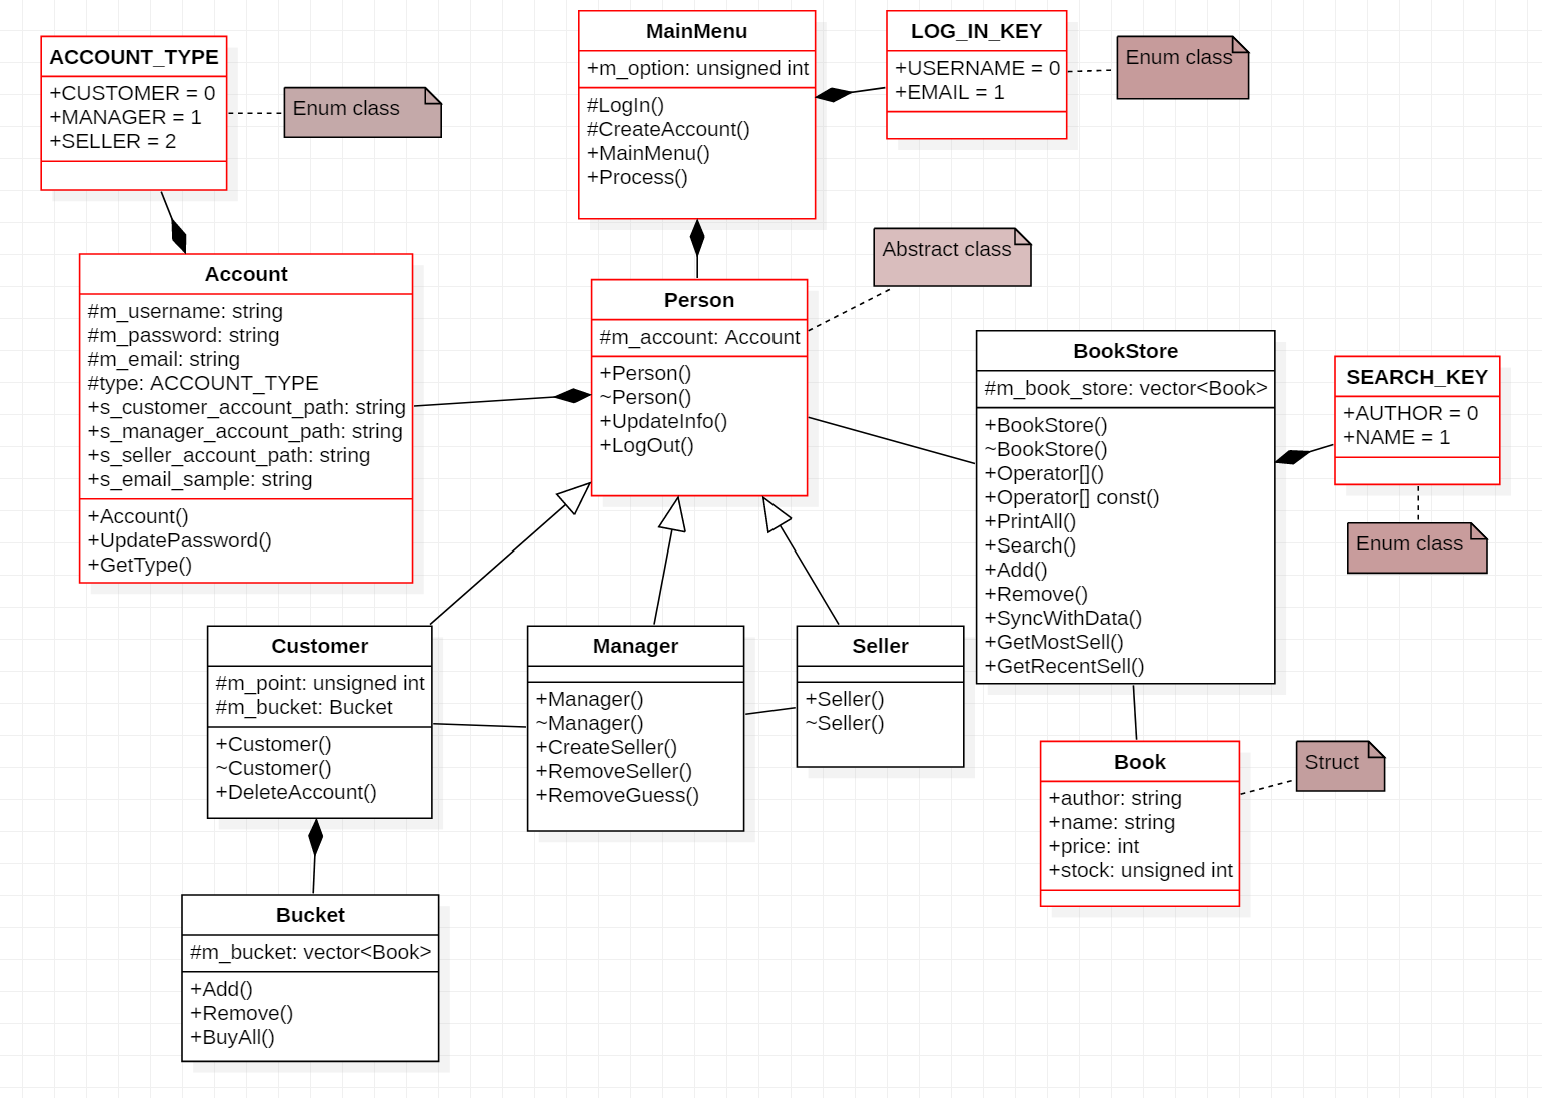
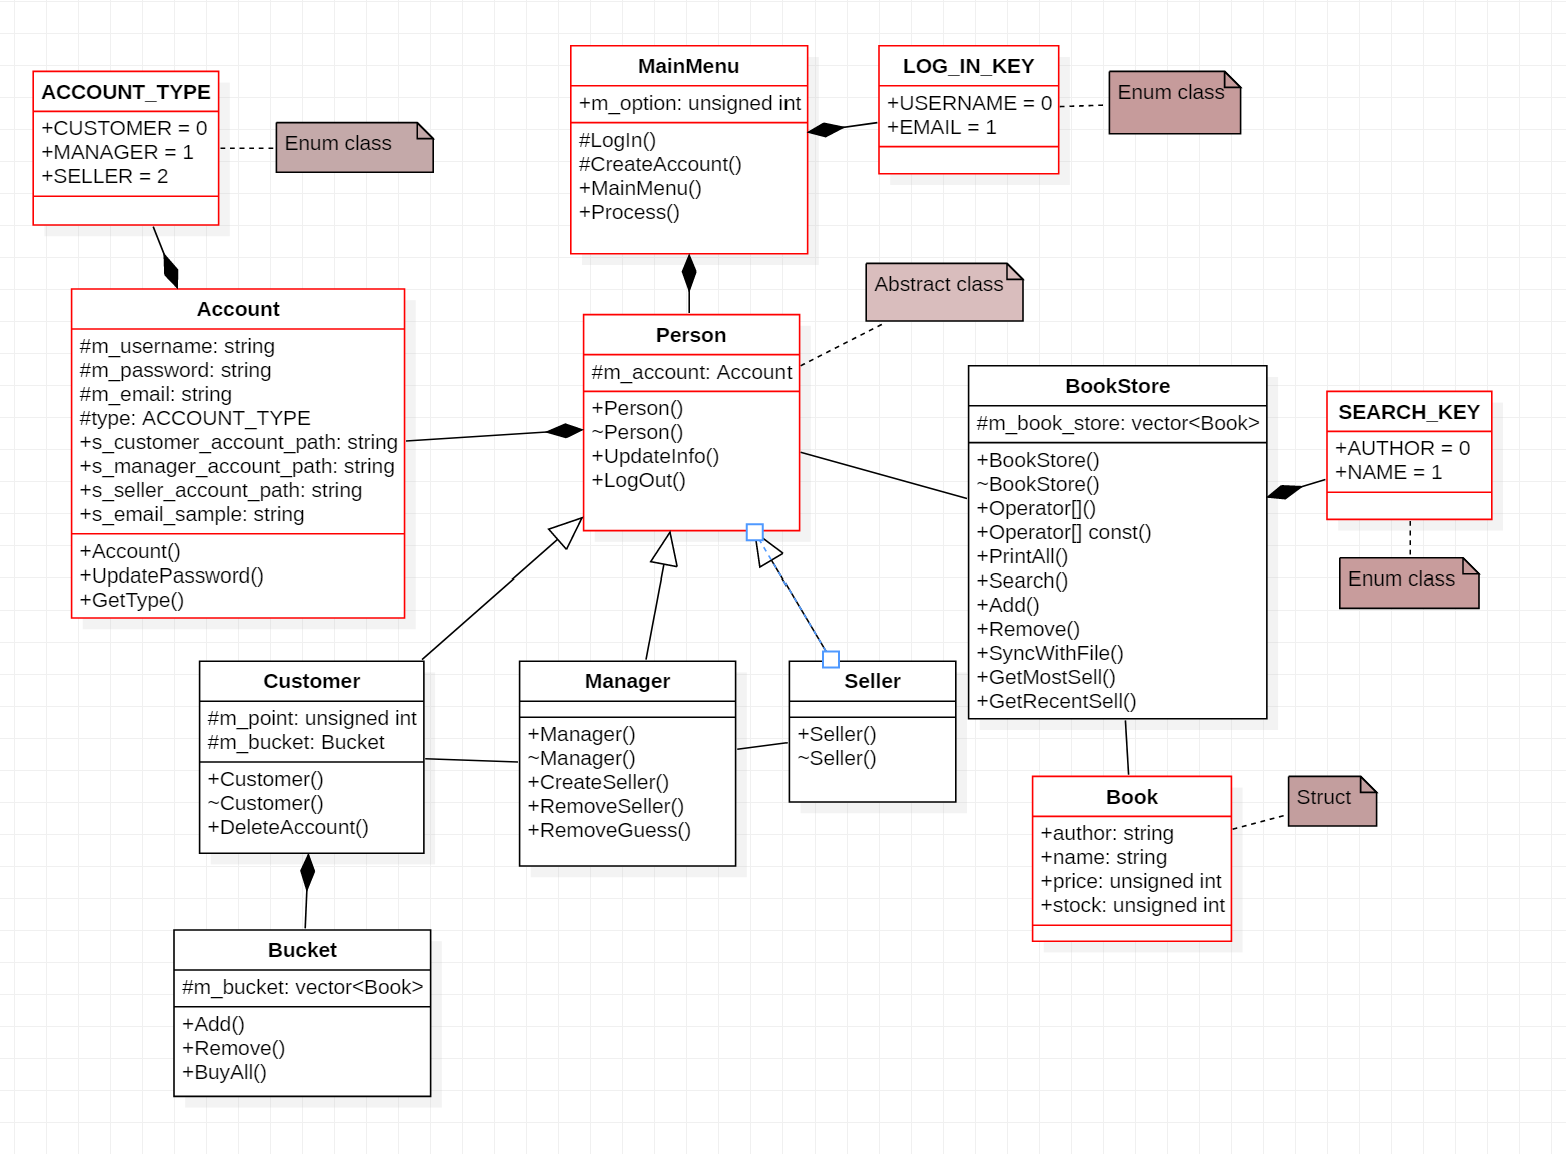
add class FileHandler

diff --git a/PA1(selling app)/ProjectSellingApp/ProjectSellingApp/BookStore/BookStore.cpp b/PA1(selling app)/ProjectSellingApp/ProjectSellingApp/BookStore/BookStore.cpp
@@ -3,10 +3,10 @@
 #include <regex>
 
 #include "BookStore.h"
-#include "../Util.h"
+#include "../Utility/Util.h"
 
-const string book::s_author_sample = "([A-Z][a-z]*( [A-Z][a-z]*)*)";
-const string book::s_name_sample = "([A-Z0-9]+[a-z0-9]*( [A-Z0-9]+[a-z0-9]*)*)";
+const string book::s_author_pattern = "([A-Z][a-z]*( [A-Z][a-z]*)*)";
+const string book::s_name_pattern = "([A-Z0-9]+[a-z0-9]*( [A-Z0-9]+[a-z0-9]*)*)";
 
 ostream& operator << (ostream& stream, const book& b) {
 	return stream << "------------------------\n"
@@ -47,7 +47,7 @@ void BookStore::Search(SEARCH_KEY key) const {
 	string search;
 	cout << (key == SEARCH_KEY::AUTHOR ? "Enter author's name: " : "Enter book's name: ");
 	get_line_input(search, [=](const string& value) {
-		return regex_match(value, regex((key == SEARCH_KEY::AUTHOR) ? book::s_author_sample : book::s_name_sample));
+		return regex_match(value, regex((key == SEARCH_KEY::AUTHOR) ? book::s_author_pattern : book::s_name_pattern));
 		}, "Wrong name format, please try again: ");
 	
 	bool is_found = false;
@@ -66,7 +66,7 @@ void BookStore::Add() {
 	book add;
 	cout << "Enter book's name: ";
 	get_line_input(add.name, [](const string& value) {
-		return regex_match(value, regex(book::s_name_sample));
+		return regex_match(value, regex(book::s_name_pattern));
 		}, "Wrong name format, please try again: ");
 	cout << "Enter book's quantity: ";
 	get_input<unsigned int>(add.stock, [](const unsigned int& value) {
@@ -87,7 +87,7 @@ void BookStore::Add() {
 	
 	cout << "Enter book's author: ";
 	get_line_input(add.author, [](const string& value) {
-		return regex_match(value, regex(book::s_author_sample));
+		return regex_match(value, regex(book::s_author_pattern));
 		}, "Wrong name format, please try again: ");
 	cout << "Enter book's price: ";
 	get_input<unsigned int>(add.price, [](const float& value) {
@@ -105,7 +105,7 @@ void BookStore::Remove() {
 	book remove;
 	cout << "Enter book's name: ";
 	get_line_input(remove.name, [](const string& value) {
-		return regex_match(value, regex(book::s_name_sample));
+		return regex_match(value, regex(book::s_name_pattern));
 		}, "Wrong name format, please try again: ");
 	cout << "Enter book's quantity: ";
 	get_input<unsigned int>(remove.stock, [](const unsigned int& value) {

diff --git a/PA1(selling app)/ProjectSellingApp/ProjectSellingApp/Menu/MainMenu.cpp b/PA1(selling app)/ProjectSellingApp/ProjectSellingApp/Menu/MainMenu.cpp
@@ -5,7 +5,7 @@
 #include <regex>
 
 #include "MainMenu.h"
-#include "../Util.h"
+#include "../Utility/Util.h"
 #include "../Account/Account.h"
 #include "../Person/Person.h"
 
@@ -20,12 +20,12 @@ void MainMenu::LogIn(LOG_IN_KEY key) {
 	else {
 		std::cout << "Enter email: ";
 		get_input<std::string>(email, [](const std::string& value) {
-			return std::regex_match(value, std::regex(Account::s_email_sample));
+			return std::regex_match(value, std::regex(Account::s_email_pattern));
 			}, "Wrong email format, please try again: ");
 	}
 	std::cout << "Enter password: ";
 	get_input<std::string>(pass, [](const std::string& value) {
-		return std::regex_match(value, std::regex(Account::s_pass_sample));
+		return std::regex_match(value, std::regex(Account::s_pass_pattern));
 		}, "Password must have at least 8 characters, please try again: ");
 
 	std::pair<std::string, ACCOUNT_TYPE> path[3] = {
@@ -70,11 +70,11 @@ void MainMenu::CreateAccount() {
 	get_input<std::string>(username, nullptr, "");
 	std::cout << "Enter password: ";
 	get_input<std::string>(pass, [](const std::string& value) {
-		return std::regex_match(value, std::regex(Account::s_pass_sample));
+		return std::regex_match(value, std::regex(Account::s_pass_pattern));
 		}, "Password must have at least 8 characters, please try again: ");
 	std::cout << "Enter email: ";
 	get_input<std::string>(email, [](const std::string& value) {
-		return std::regex_match(value, std::regex(Account::s_email_sample));
+		return std::regex_match(value, std::regex(Account::s_email_pattern));
 		}, "Wrong email format, please try again: ");
 
 	std::ifstream fin("Account/Data/CustomerAccount.data");

diff --git a/PA1(selling app)/ProjectSellingApp/ProjectSellingApp/Account/Account.cpp b/PA1(selling app)/ProjectSellingApp/ProjectSellingApp/Account/Account.cpp
@@ -2,23 +2,23 @@
 #include <regex>
 
 #include "Account.h"
-#include "../Util.h"
+#include "../Utility/Util.h"
 
 const std::string Account::s_customer_account_path = "Account/Data/CustomerAccount.data";
 const std::string Account::s_manager_account_path = "Account/Data/ManagerAccount.data";
 const std::string Account::s_seller_account_path = "Account/Data/SellerAccount.data";
-const std::string Account::s_pass_sample = "([a-zA-Z0-9!@#$%^&*<>?]{8,})";
-const std::string Account::s_email_sample = "([a-zA-Z0-9_\.]+@[a-zA-Z]+(\.[a-zA-Z]+)+)";
+const std::string Account::s_pass_pattern = "([a-zA-Z0-9!@#$%^&*<>?]{8,})";
+const std::string Account::s_email_pattern = "([a-zA-Z0-9_\.]+@[a-zA-Z]+(\.[a-zA-Z]+)+)";
 
 void Account::UpdatePassword() {
 	std::string new_pass, pass;
 	std::cout << "Enter new password: ";
 	get_input<std::string>(new_pass, [](const std::string& value) {
-		return std::regex_match(value, std::regex(s_pass_sample));
+		return std::regex_match(value, std::regex(s_pass_pattern));
 		}, "Password must have at least 8 characters, please try again: ");	
 	std::cout << "Enter current password to confirm: ";
 	get_input<std::string>(pass, [](const std::string& value) {
-		return std::regex_match(value, std::regex(s_pass_sample));
+		return std::regex_match(value, std::regex(s_pass_pattern));
 		}, "Password must have at least 8 characters, please try again: ");
 	
 	if (pass != m_pass) {

diff --git a/PA1(selling app)/ProjectSellingApp/ProjectSellingApp/Utility/FileHandler.h b/PA1(selling app)/ProjectSellingApp/ProjectSellingApp/Utility/FileHandler.h
@@ -1,0 +1,57 @@
+#pragma once
+
+#include <string>
+#include <vector>
+#include <functional>
+#include <fstream>
+
+#include "Util.h"
+
+// Convert a text file t a vector of any type
+template<typename T>
+void file_to_vec(const std::string& file_path, std::vector<T>& input, std::function<void(T& value, const std::string& line)> line_to_T) {
+	std::ifstream fin(file_path);
+	if (!fin.is_open()) {
+		prompt_message("Fail to open " + file_path);
+		return;
+	}
+
+	std::string line;
+	while (getline(fin, line, '\n')) {
+		T t;
+		line_to_T(t, line);
+		input.emplace_back(t);
+	}
+
+	prompt_message("Convert successfully");
+	fin.close();
+}
+
+template<typename T>
+class FileHandler {
+private:
+	std::string m_file_path;
+	std::vector<T> m_vec;
+
+public:
+	inline FileHandler(const std::string& file_path, std::function<void(T& value, const std::string& line)> line_to_T) 
+		: m_file_path(file_path) {
+		file_to_vec(file_path, m_vec, line_to_T);
+	}
+
+
+
+public:
+	inline void SyncWithFile() const {
+		std::ofstream fout(m_file_path, ios::trunc);
+		if (!fout.is_open()) {
+			prompt_message("Fail to open " + m_file_path);
+			return;
+		}
+
+		for (const T& t : m_vec)
+			fout << t << "\n";
+
+		fout.close();
+	}
+};

diff --git a/PA1(selling app)/ProjectSellingApp/ProjectSellingApp/Utility/Util.h b/PA1(selling app)/ProjectSellingApp/ProjectSellingApp/Utility/Util.h
@@ -5,6 +5,9 @@
 #include <numeric>
 #include <functional>
 
+// Print message to console and wait for user to press any key to continue
+void prompt_message(const std::string& message);
+
 // Function to get option input of any type from the user and check for error
 // Pass nullptr to isValid if you don't want to check further
 // Pass a string to error_message to prompt to user when an error occur
@@ -22,6 +25,3 @@ void get_input(T& input, std::function<bool(const T& value)> is_valid, const std
 // Pass nullptr to isValid if you don't want to check further
 // Pass a string to error_message to prompt to user when an error occur
 void get_line_input(std::string& input, std::function<bool(const std::string& value)> is_valid, const std::string& error_message);
-
-// Print message to console and wait for user to press any key to continue
-void prompt_message(const std::string& message);

diff --git a/PA1(selling app)/ProjectSellingApp/ProjectSellingApp/Account/Account.h b/PA1(selling app)/ProjectSellingApp/ProjectSellingApp/Account/Account.h
@@ -13,8 +13,8 @@ public:
 	static const std::string s_customer_account_path;
 	static const std::string s_manager_account_path;
 	static const std::string s_seller_account_path;
-	static const std::string s_pass_sample;
-	static const std::string s_email_sample;
+	static const std::string s_pass_pattern;
+	static const std::string s_email_pattern;
 
 private:
 	std::string m_username, m_pass, m_email;

diff --git a/PA1(selling app)/ProjectSellingApp/ProjectSellingApp/BookStore/BookStore.h b/PA1(selling app)/ProjectSellingApp/ProjectSellingApp/BookStore/BookStore.h
@@ -1,11 +1,11 @@
-#include<string>
-#include<vector>
+#include <string>
+#include <vector>
 #include <iostream>
 using namespace std;
 
 struct book {
-	static const string s_author_sample;
-	static const string s_name_sample;
+	static const string s_author_pattern;
+	static const string s_name_pattern;
 
 	string author, name;
 	unsigned int price, stock;

diff --git a/PA1(selling app)/ProjectSellingApp/ProjectSellingApp/Person/Person.h b/PA1(selling app)/ProjectSellingApp/ProjectSellingApp/Person/Person.h
@@ -3,7 +3,7 @@
 #include <string>
 
 #include "../Account/Account.h"
-#include "../Util.h"
+#include "../Utility/Util.h"
 
 class Person {
 protected:

diff --git a/PA1(selling app)/ProjectSellingApp/ProjectSellingApp/Main.cpp b/PA1(selling app)/ProjectSellingApp/ProjectSellingApp/Main.cpp
@@ -1,5 +1,5 @@
 #include "Menu/MainMenu.h"
-#include "Util.h"
+#include "Utility/Util.h"
 
 int main() {
 	MainMenu main_menu;

diff --git a/PA1(selling app)/ProjectSellingApp/ProjectSellingApp/Utility/FileHandler.cpp b/PA1(selling app)/ProjectSellingApp/ProjectSellingApp/Utility/FileHandler.cpp
@@ -1,0 +1,1 @@
+#include "FileHandler.h"

diff --git a/PA1(selling app)/UpdateLog.md b/PA1(selling app)/UpdateLog.md
@@ -13,3 +13,6 @@
 * Change book::price from float to int in BookStore.h.
 * Add regex, SyncWithData function for class BookStore.
 
+### 10/07/2019, Thanh:
+* Add regex for pass in class Account.
+
